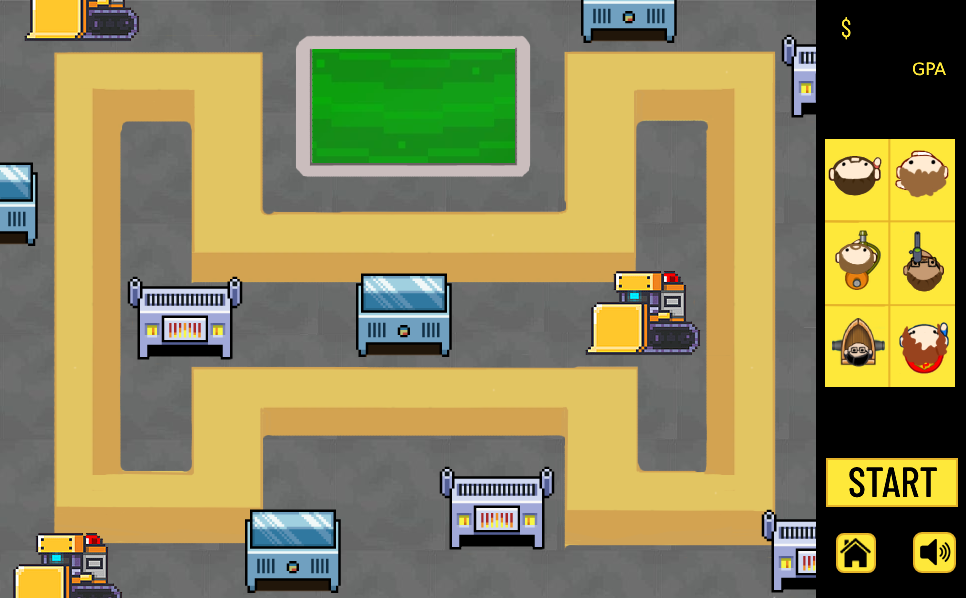
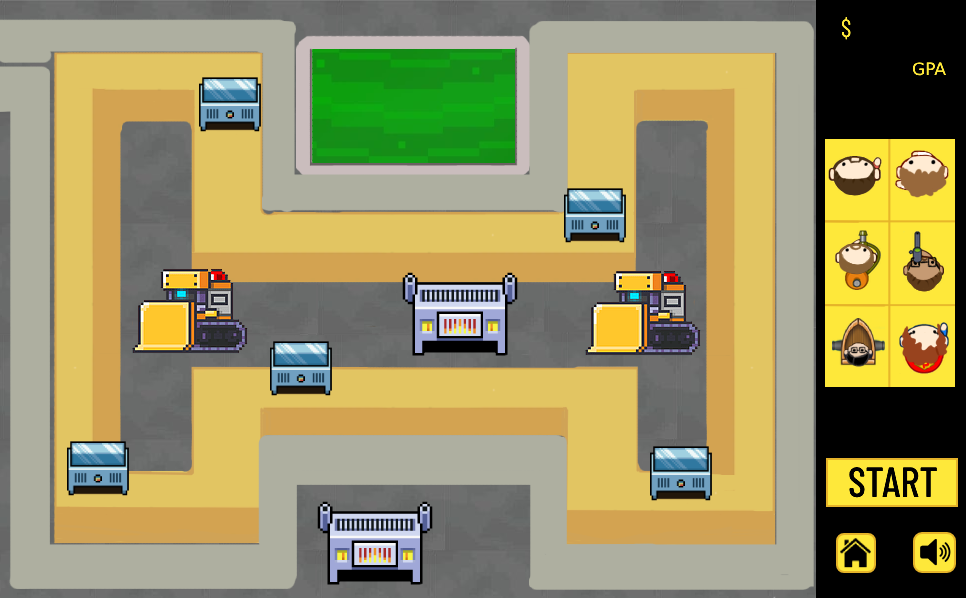
updated images + created night and day cycle
deleted old images, added arrows to show start and end of map, made it so you only get money at the start of each round, and made it so you lose money when a goose leaves the map

diff --git a/game.py b/game.py
@@ -5,6 +5,7 @@ from bloons import Levels
 from towers import Tower
 from player import Player, Music
 from data import Coord, towerTypes, player
+import random #MW: MADISON ADDED THIS - import random function to randomize which levels take place at night
 
 """
 Citations:
@@ -37,7 +38,9 @@ class Game(object): #MW: create a class for the game
         self.width = width
         self.height = height
         self.fps = fps
-        self.title = "Bloons Tower Defense 112: By Sarah Wang"
+        self.title = "Goose Tower Defense: By Samuel Zhu and Madison Wong" #MW: MADISON CHANGED THIS - I changed the title of the game window
+        self.nighttime = False #MW: I ADDED THIS - create a variable that changes depending on if the level takes place at night
+        self.nightcount = 0 #MW: I ADDED THIS - create a variable to keep track of the time between night levels
         pygame.init() #MW: initializes all pygame modules (needed to set up game window, fonts, music, etc.)
 
         pygame.mixer.music.load('btd_theme.ogg') #MW: load the music file from the module
@@ -64,7 +67,21 @@ class Game(object): #MW: create a class for the game
             #updates bullets (make them move toward targets)
             for bullet in player.bullets:
                 bullet.update(player.screen) #MW: moves the bullets across the screen and towards the targetted bloons
+    
+    #MW: MADISON made this function (to randomly make the level night time)
+    def timeOfDay(self):
+        isNight = random.choice([True,False,False,False]) #MW: use the random module and list of Booleans to randomly decide whether a level will take place at night (there's a 25% chance of any level being night)
+        self.nighttime = isNight
+    
+        if isNight: #MW: run if it's night time
+            self.nightcount = 0 #MW: it's been night
 
+        elif isNight == False:
+            self.nightcount += 1
+            if self.nightcount == 3: #MW: run if it's been three levels without a night level
+                self.nighttime = True #MW: make it a night level
+                self.nightcount = 0 #MW: it's been 0 levels since a night time level
+        
     def pressedButton(self, x, y): #MW: create a function that allows the player to click buttons on the screen
 
         #pressed start button
@@ -74,9 +91,16 @@ class Game(object): #MW: create a class for the game
                 player.level += 1 #MW: after the player has just started the game or just completed a level, the next level will begin
                 if player.level < 11:
                     player.spriteBloons = Levels.runLevel(player.level) #MW: if the player hasn't finished playing all of the levels, the bloon sprites will be generated based on the current level
+                    self.timeOfDay() #MW: check what time of day it is (MADISON ADDED THIS)
+                    #MW: MADISON ADDED THESE LINES (gives the player money after they progress to another level)
+                    if player.level > 1:
+                        player.money += 100 #MW: add $100 to player's money after beating a level (MADISON ADDED THIS)
                 else:
                     player.level = 10
                     player.gameWon = True #MW: if the player has made it to level 10, the game has been won
+                    #MW: MADISON ADDED THE LINES BELOW (the reset the night variables after the game has been won)
+                    self.nightcount = 0 #MW: reset night couner to zero after winning
+                    self.nighttime = False #MW: reset night time variable after winning
 
         #pressed monkey sidebar
         if x > 825 and x < 950 and y > 140 and y < 380: #MW: checks if the player clicked a coordinate in the area of the monkey sidebar
@@ -95,6 +119,9 @@ class Game(object): #MW: create a class for the game
         #pressed home button
         if x > 840 and x < 872 and y > 538 and y < 568:
             self.splashScreenActive = True #MW: if coordinates within the home button are pressed, the main menu screen is displayed again
+            #MW: MADISON ADDED THESE LINES (to reset night variables if player goes back to the home screen)
+            self.nightcount = 0
+            self.nighttime = False #MW: resets night count and night time variables
 
         #place a monkey onto the canvas
         if player.selectedTower != None:
@@ -156,8 +183,12 @@ class Game(object): #MW: create a class for the game
     #makes bloons move across map
     def moveBloons(self, bloonsList):
         for bloon in bloonsList:
+            #MW: MADISON added the if and else statements to control speed (most geese move faster during night time)
+            if self.nighttime and bloon.color != 'pink' and bloon.color != 'yellow': #MW: if it's a night level all geese except for pink and yellow ones will move faster (pink and yellow geese are already fast enough)
+                speed = bloon.speed + 2
+            else: #MW: the regular speed for the geese are used if it's not night time
+                speed = bloon.speed #MW: the speed of each bloon in the bloon list is collected
 
-            speed = bloon.speed #MW: the speed of each bloon in the bloon list is collected
             x = bloon.rect.centerx
             y = bloon.rect.centery #MW: the x and y coordinates of each bloon are set to the centres of each bloon
 
@@ -167,10 +198,14 @@ class Game(object): #MW: create a class for the game
                     bloon.move(-speed, 0) #MW: if the bloon is at the last waypoint before the end of the map, it stop moving in the y direction and starts moving left in the x direction (at this section of the map, the path requires the bloon to move in this way)
                     if x <= -5: #check if bloon has moved past the map
                         player.lives -= bloon.strength
+                        player.money -= bloon.strengh #MW: MADISON ADDED THIS (every time a goose leaves the map, the player's money is depleted according to the goose's strength)
                         bloon.kill() #MW: the player's health is depleted according to the bloon's strength and the bloon is removed from the map after going off of the screen
                         if player.lives <= 0:
                             player.gameOver = True
                             player.lives = 0 #MW: if the player has run out of lives, the player has lost the game and the player's lives is set to 0 (if a bloon makes the player's health a negative number, the player's health will still end up being zero)
+                            #MW: MADISON ADDED THE LINES BELOW (to reset the night variables if the player lost the game)
+                            self.nightcount = 0 #MW: reset night counter to zero after losing game
+                            self.nighttime = False #MW: reset night time variable after losing game
 
                 else: #MW: this section runs if the bloon hasn't made it to the last waypoint (it's not close to the end of the map yet)
                     if bloon.direction == 'right':
@@ -212,6 +247,9 @@ class Game(object): #MW: create a class for the game
                         if player.lives <= 0:
                             player.gameOver = True
                             player.lives = 0 #MW: if the player runs out of lives, the game is over and the number of lives the player has is set to 0 (if the bloon made the player have a negative number of lives, they will still have zero lives at the end)
+                            #MW: MADISON ADDED THE LINES BELOW (to reset the night variables if the player lost the game)
+                            self.nightcount = 0 #MW: reset night counter to zero after losing game
+                            self.nighttime = False #MW: reset night time variable after losing game
 
                 else: #MW: run if the bloon isn't at the last waypoint
                     if bloon.direction == 'right':
@@ -319,7 +357,25 @@ class Game(object): #MW: create a class for the game
         self.drawAllMonkeys()
         self.drawBullets()
         self.drawPlayerStats() #MW: draw the music button, all monkeys placed on the field, bullets, and the player's stats on the screen
+        
+        #MW: Madison added the lines under (to draw the arrows showing the start and ends of the maps)
+        
+        if player.game == 'map1' and player.level == 0: #MW: check if map 1 is being used and if the level is 0 (start of the game)
+            map1_start = pygame.image.load("images/map1_start.png")
+            map1_start.convert() #MW: "map 1 arrrow" is loaded and converted to decrease render time when drawing the image
+            player.screen.blit(map1_start, (0,0)) #MW: draw the arrow image on the screen at the coordinates (0,0) (top left of screen)
 
+        elif player.game == 'map2' and player.level == 0:  #MW: check if map 2 is being used and if the level is 0 (start of the game)
+            map2_start = pygame.image.load("images/map2_start.png")
+            map2_start.convert() #MW: "map 2 arrow" is loaded and converted to decrease render time when drawing the image
+            player.screen.blit(map2_start, (0,0)) #MW: draw the arrow image on the screen at the coordinates (0,0) (top left of screen))
+        
+        #MW: Madison coded the lines under (to draw the night time overlay on screen)
+        if self.nighttime: #MW: draw the night time overlay on screen if it's night time
+            night_overlay = pygame.image.load("images/night_overlay.png") #MW: import the night time overlay
+            night_overlay.convert() #MW: "night overlay" is loaded and converted to decrease render time when drawing the image
+            player.screen.blit(night_overlay,(0,0)) #draw the night time overlay on screen
+        
     def initializeSplashScreen(self): #MW: create function to draw the main menu on the screen
         self.splashScreen = pygame.image.load("images/splash_screen.png").convert() #MW: get the splash screen image and convert it to the same pixel format of the display screen to reduce rendering time
         player.screen.blit(self.splashScreen, (0,0)) #MW: draw the main menu in the top left of the screen
@@ -434,7 +490,7 @@ class Game(object): #MW: create a class for the game
                         pygame.quit()
                         sys.exit() #MW: if the player wants to quit the game, pygame stops, the screen closes, and the code stops running
 
-            else: #MW: this section rusn if the player isn't on the main menu, tutorial, and hasn't won or lost the game
+            else: #MW: this section runs if the player isn't on the main menu, tutorial, and hasn't won or lost the game
                 self.initializeMap() #MW: draw the map immage on the screen
                 self.timerFired() #MW: draw the monkeys' bullets on screen according to the type of monkey and cooldown time (if applicable to that monkey time)
                 self.moveBloons(player.spriteBloons) #MW: make the bloons move across the screen

diff --git a/data.py b/data.py
@@ -62,11 +62,11 @@ towerTypes = { #MW: towerTypes is a nested dictionary (dictionary within a dicti
     "pendar": #MW: information for pendar
         {
         "price": 3500, 
-        "cooldown": 0.001,
+        "cooldown": 0.01, #original = 0.001
         "upgrade_price": 2000,
         "damage": 1,
         "slow": 0,
-        "range": 225,
+        "range": 200, #original = 225
         "bullet": "matrix",
         "description": "Shoots super fast lasers"
         },
@@ -137,10 +137,10 @@ towerTypes = { #MW: towerTypes is a nested dictionary (dictionary within a dicti
         #damage increased, range increased
         "price": 6500,
         "upgrade_price": 2000,
-        "cooldown": 0.001,
+        "cooldown": 0.01,
         "damage": 2,
         "slow": 0,
-        "range": 275,
+        "range": 250, #original 275
         "bullet": "matrix",
         "description": "Shoots super fast lasers"
         }

diff --git a/player.py b/player.py
@@ -4,7 +4,7 @@ import pygame
 class Player(pygame.sprite.Sprite): #MW: create class for the player
 
     def __init__(self): #MW: create instance for the player's stats (ex. money availble, health, level, etc.)
-        self.money = 600 #MW: set the player's initial money to 600
+        self.money = 5000 #MW: set the player's initial money to 5000
         self.lives = 100 #MW: set the player's initial health to 100
         self.level = 0 #MW: set the player's initial level to 0
         self.start = False #MW: the game has not started at the beginning (the main menu is open at the start)

diff --git a/bloons.py b/bloons.py
@@ -59,7 +59,7 @@ class Bloon(pygame.sprite.Sprite): #SZ: creates class for the bloons
 
         #bloon has died
         if self.strength <= 0:  #SZ: if bloon has no more health 
-            player.money += self.originalPrice #SZ: adds money based on the original price (strength*5)
+            #player.money += self.originalPrice #SZ: adds money based on the original price (strength*5)
             self.kill() #SZ: removes bloon object 
             return
 
